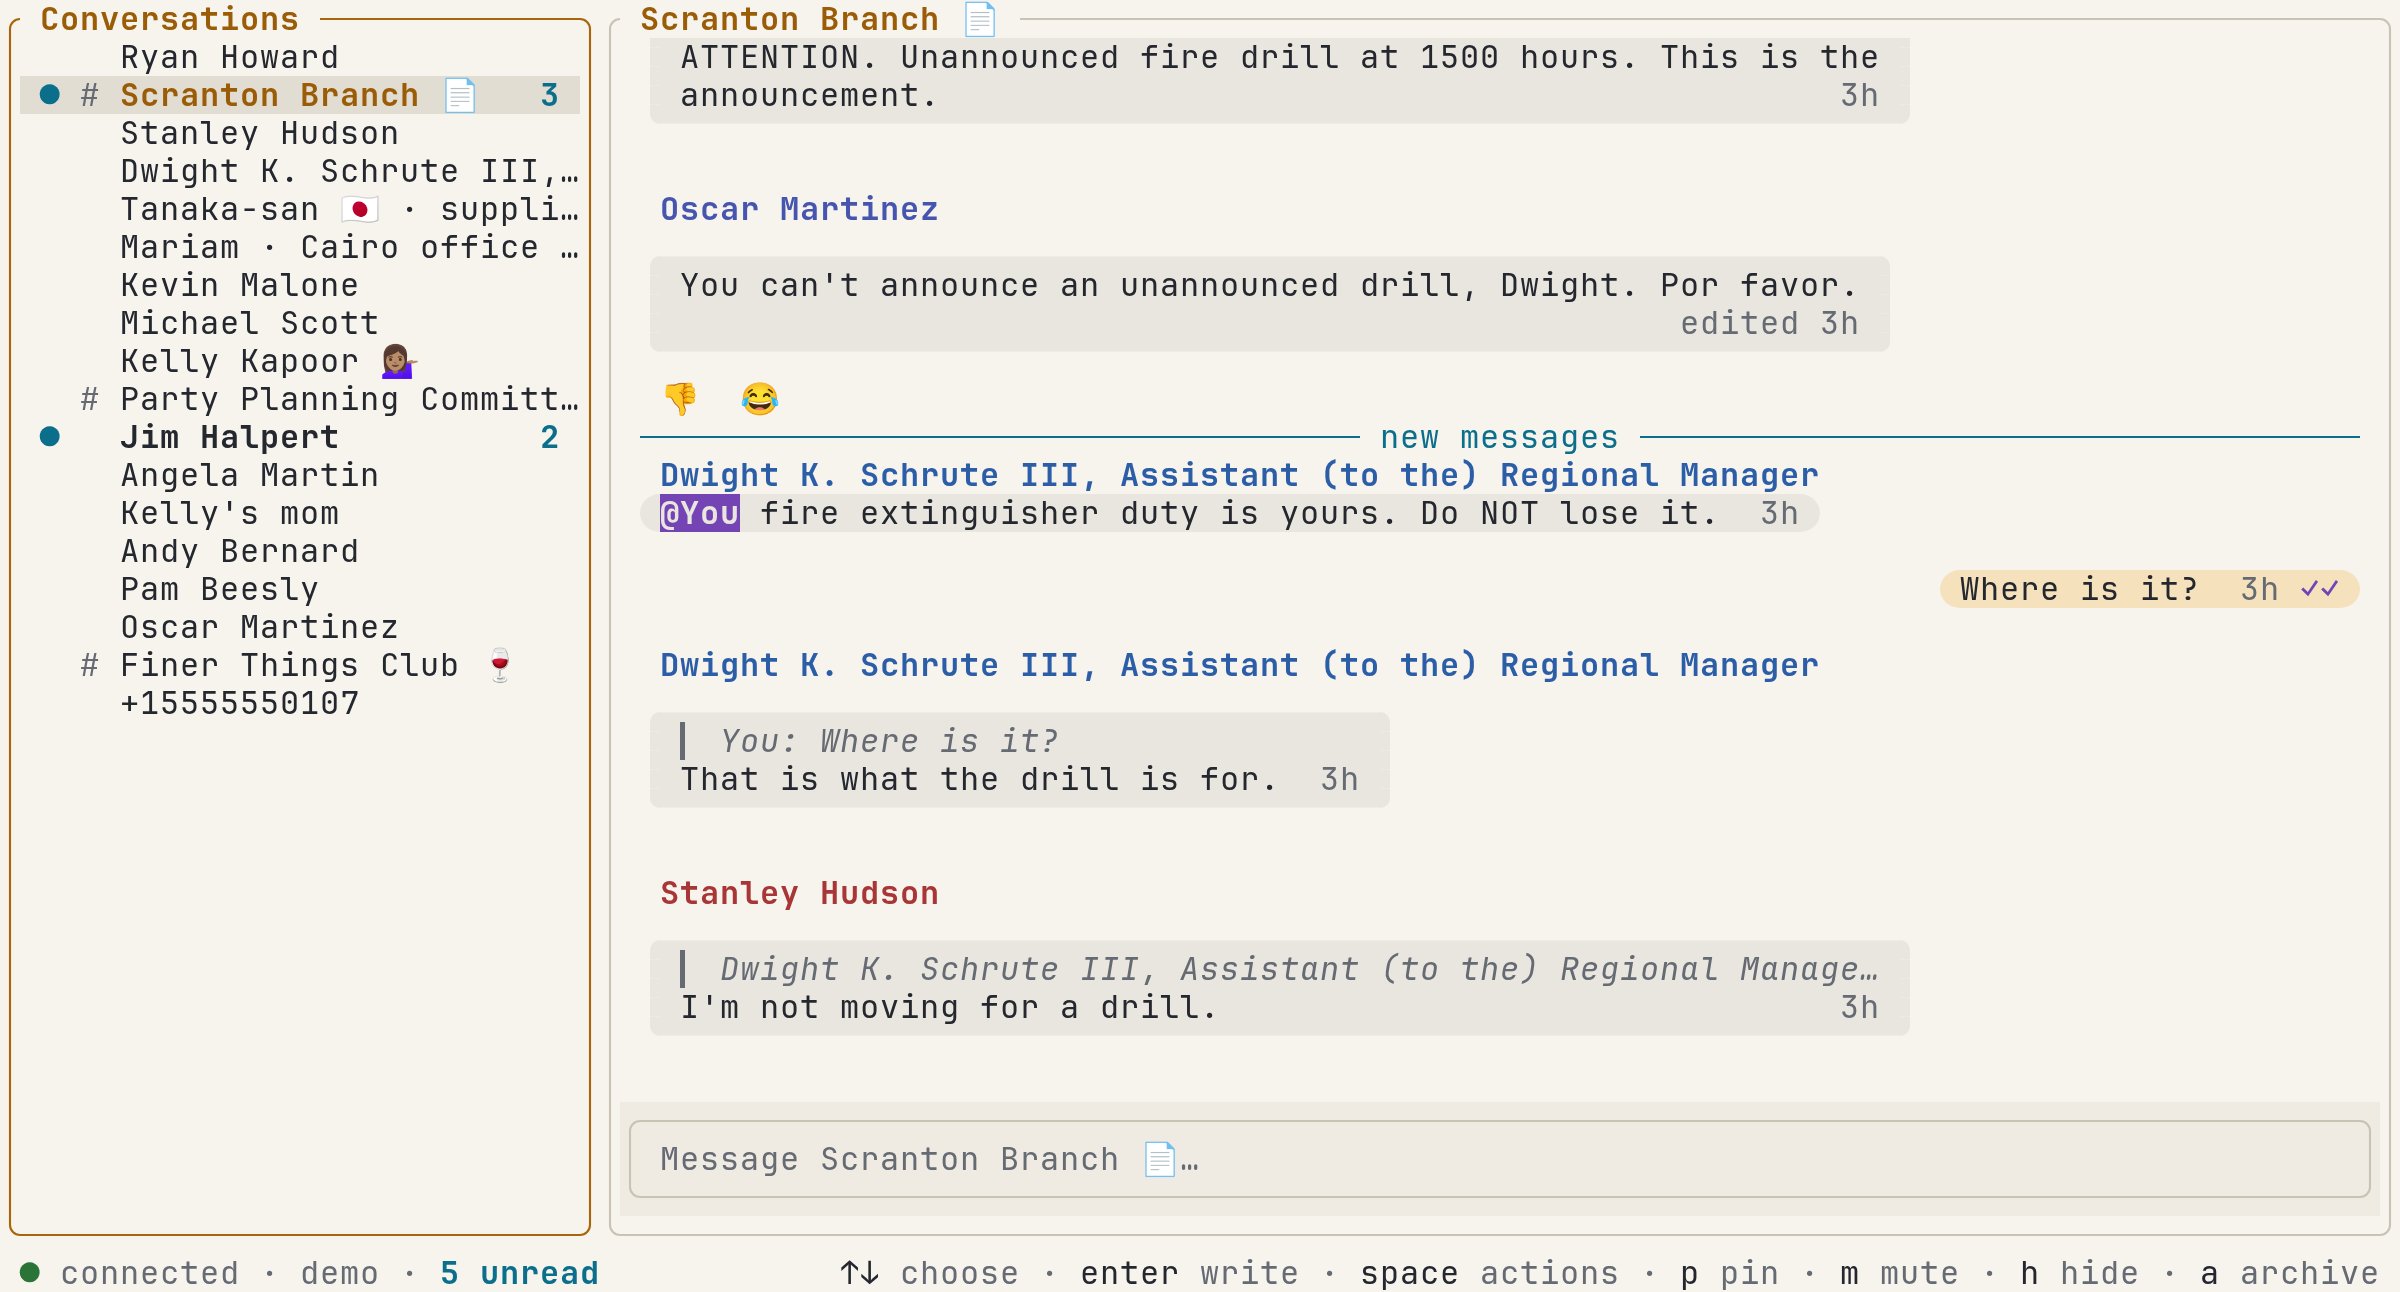
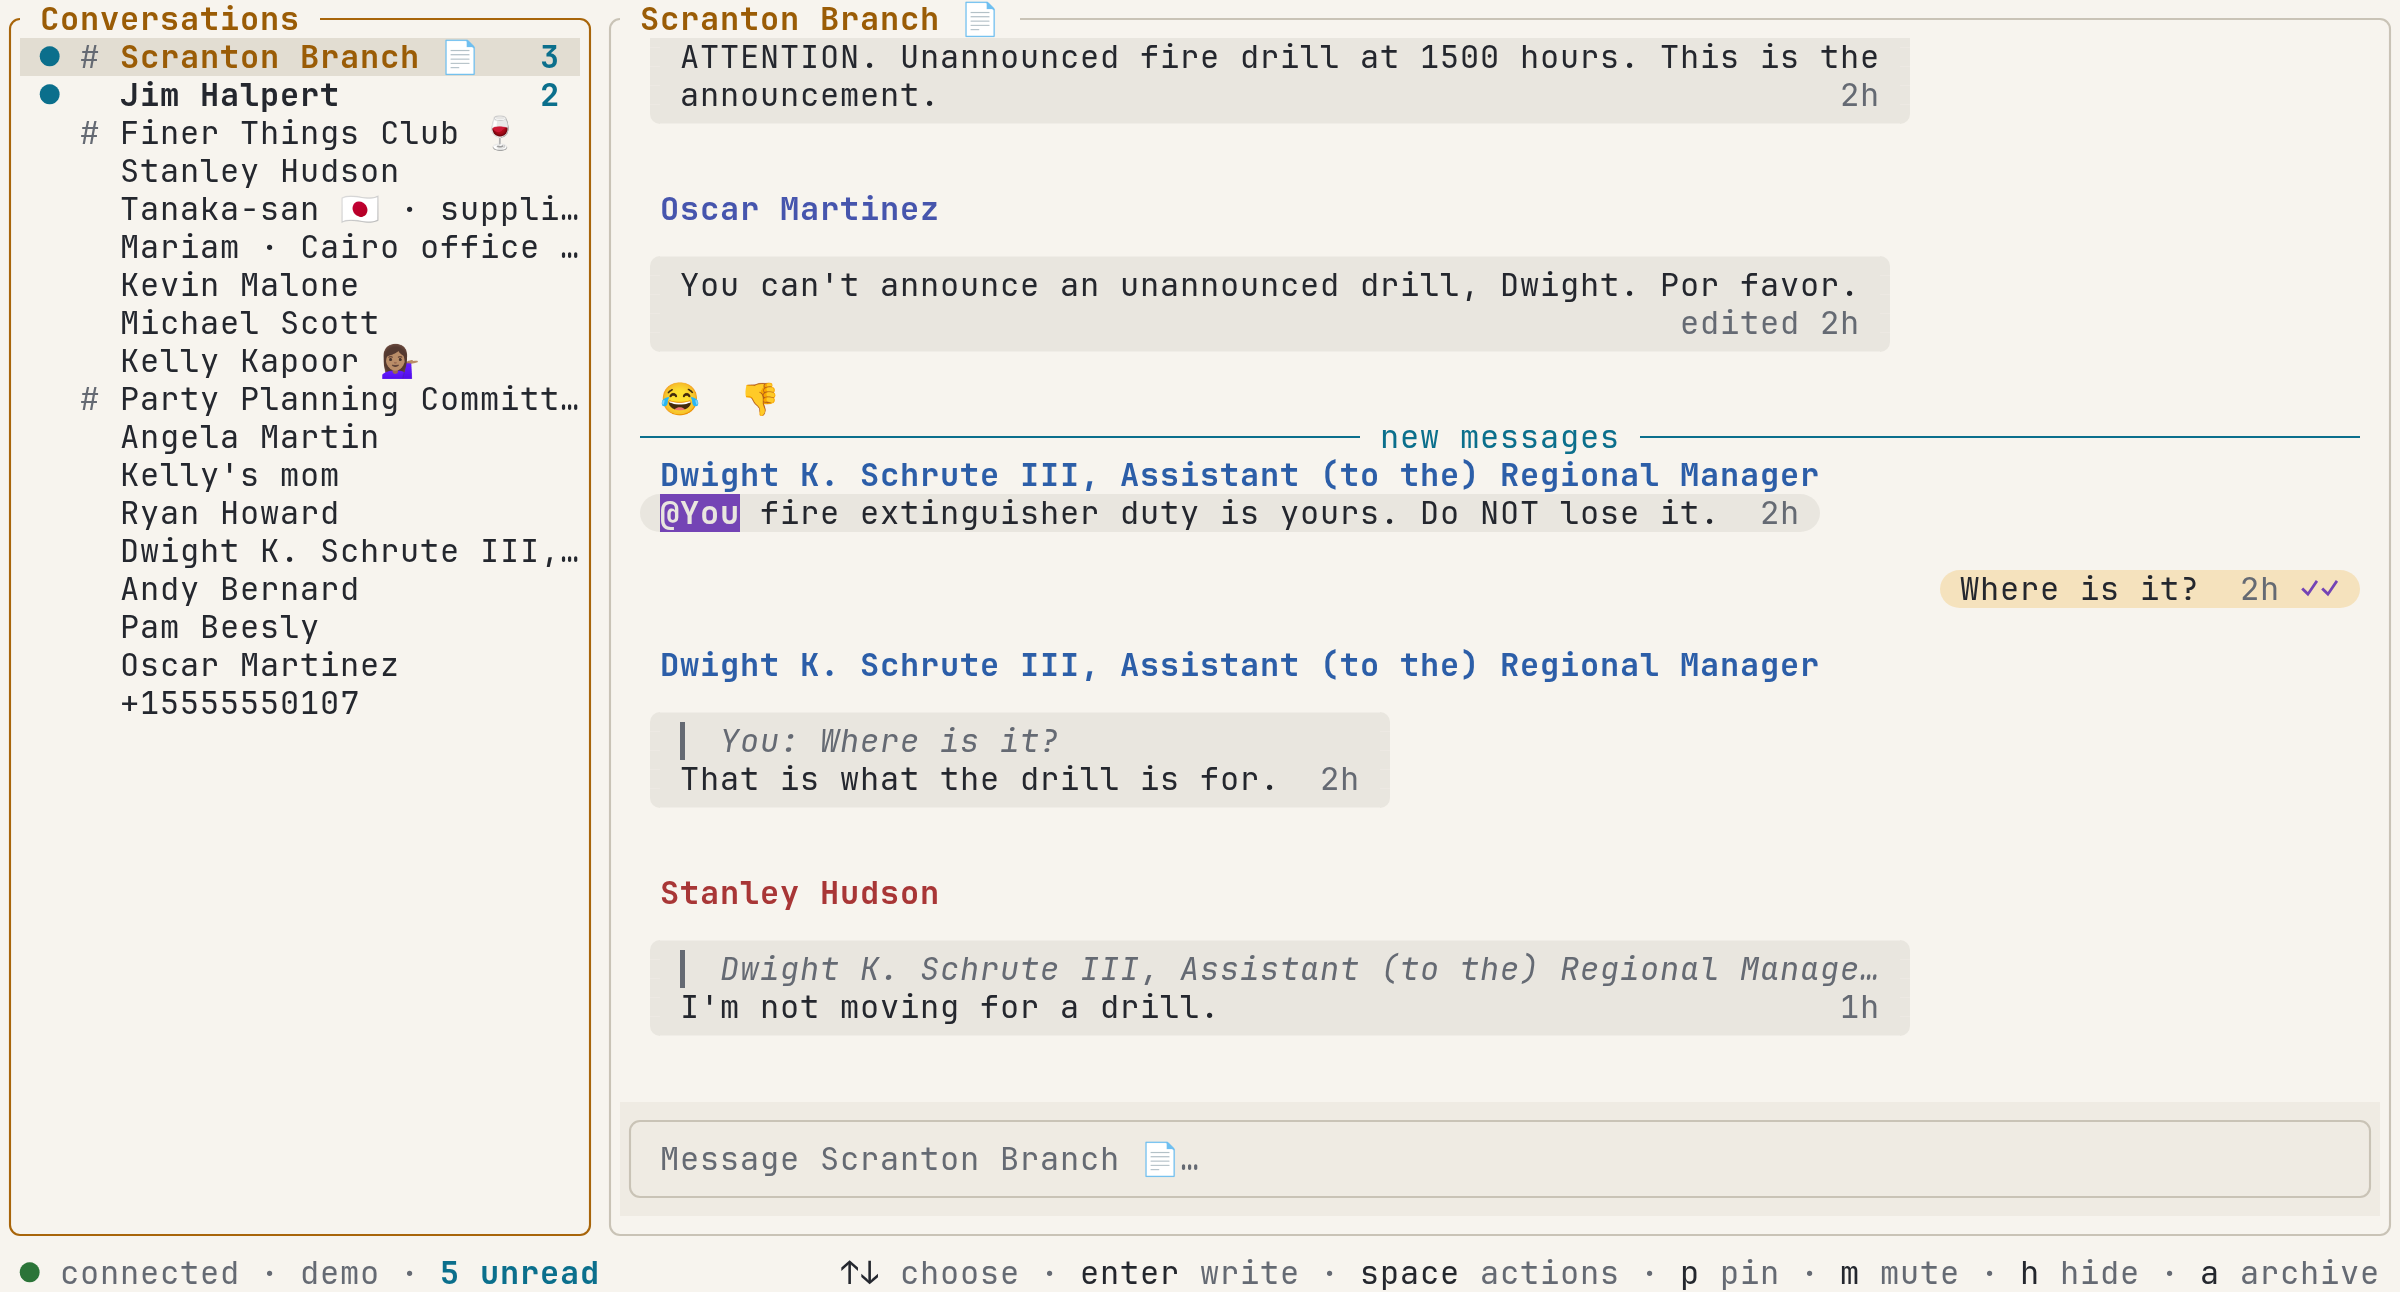
Demo: date the unread chats newest so they top the list (D139)

diff --git a/crates/faro-core/src/mock/sim.rs b/crates/faro-core/src/mock/sim.rs
@@ -497,10 +497,24 @@ impl Sim {
 
     /// Messages "queued on the server" while faro was closed: `count` lines from
     /// whole scenes (the last one may stop part-way and carry on live), dated
-    /// over the past few days and delivered right after connecting.
+    /// over the past few days and delivered right after connecting. The
+    /// [`UNREAD_AT_START`] chats always get a scene each, dated newest, so
+    /// the chats left unread sit at the top of the list (D139).
     fn schedule_backlog(&mut self, count: usize) {
-        let mut plays: Vec<(usize, usize)> = Vec::new();
         let mut left = count;
+        let mut unread: Vec<(usize, usize)> = Vec::new();
+        for (chat, _) in UNREAD_AT_START {
+            if left == 0 {
+                break;
+            }
+            let Some(scene) = self.next_scene_where(|s| s.chat == chat) else {
+                continue;
+            };
+            let lines = SCENES.get(scene).map_or(0, |s| s.lines.len()).min(left);
+            unread.push((scene, lines));
+            left -= lines;
+        }
+        let mut plays: Vec<(usize, usize)> = Vec::new();
         while left > 0 {
             let Some(scene) = self.next_scene() else {
                 break;
@@ -513,6 +527,8 @@ impl Sim {
             plays.push((scene, lines));
             left -= lines;
         }
+        // Oldest first: the first unread chat ends up newest, at the top.
+        plays.extend(unread.into_iter().rev());
         let scenes = u64::try_from(plays.len()).unwrap_or(1).max(1);
         let slot = (BACKLOG_SPAN - BACKLOG_NEWEST) / scenes;
         // (wall-clock ms, event), sorted before delivery.
@@ -627,6 +643,12 @@ impl Sim {
 
     /// The next scene in the seeded order whose chat has no scene running.
     fn next_scene(&mut self) -> Option<usize> {
+        self.next_scene_where(|_| true)
+    }
+
+    /// The next scene in the seeded order that `wanted` accepts and whose
+    /// chat has no scene running.
+    fn next_scene_where(&mut self, wanted: impl Fn(&Scene) -> bool) -> Option<usize> {
         if self.cursor >= self.order.len() {
             // Reshuffle, keeping what just played away from the front.
             shuffle(&mut self.rng, &mut self.order);
@@ -643,7 +665,7 @@ impl Sim {
         let offset = self.order.get(self.cursor..)?.iter().position(|&s| {
             SCENES
                 .get(s)
-                .is_some_and(|scene| !busy.contains(&scene.chat))
+                .is_some_and(|scene| wanted(scene) && !busy.contains(&scene.chat))
         })?;
         self.order.swap(self.cursor, self.cursor + offset);
         let scene = self.order.get(self.cursor).copied()?;
@@ -1424,5 +1446,33 @@ mod tests {
         assert!(times.is_sorted());
         assert!(times.iter().all(|t| *t < sim.wall_clock_at(0)));
         assert_eq!(sim.next_due(), None, "no activity configured");
+    }
+
+    /// The chats left unread hold the newest backlog messages, in
+    /// [`UNREAD_AT_START`] order, so they top the list (D139).
+    #[test]
+    fn unread_chats_are_the_newest() {
+        for seed in 0..16 {
+            let mut config = MockConfig::deterministic(seed);
+            config.activity = None;
+            let mut sim = Sim::new(&config, World::build());
+            let mut newest: Vec<(ConversationId, Timestamp)> = Vec::new();
+            for event in sim.pop_due(CONNECT_DELAY) {
+                let Some(m) = as_message(&event) else {
+                    continue;
+                };
+                match newest.iter_mut().find(|(c, _)| *c == m.conversation) {
+                    Some((_, at)) => *at = (*at).max(m.sent_at),
+                    None => newest.push((m.conversation, m.sent_at)),
+                }
+            }
+            newest.sort_by_key(|&(_, at)| std::cmp::Reverse(at));
+            let top: Vec<ConversationId> = newest.iter().take(2).map(|&(c, _)| c).collect();
+            let expected: Vec<ConversationId> = UNREAD_AT_START
+                .iter()
+                .filter_map(|&(chat, _)| sim.world.conversation(chat))
+                .collect();
+            assert_eq!(top, expected, "seed {seed}");
+        }
     }
 }

diff --git a/docs/DECISIONS.md b/docs/DECISIONS.md
@@ -1351,3 +1351,9 @@ Refines the DESIGN.md §5.1 sketch:
 - **Why:** an audit found the README read like release notes plus a manual: wrong since v0.1.1 (image sizing and "restart to detect"), a broken theme link, "later Signal keys", a feature list headed "in the demo", a wrong sentence about the commit checks; no limits or privacy notes; install → link → run buried; half the file terminal detail.
 - **Now:** README = badges (release, CI, AUR, licence; a stars badge waits until there are stars), pitch, one screenshot, Install (from source collapsed), Quick start, Using faro (10 essential keys plus every default key in a collapsed block, so the website's "All keys" link to `#keys` still holds; config in a paragraph; three flags), Terminal setup (tmux snippet), Privacy and limits (mirrors the website), Troubleshooting, Contributing, License. [docs/TERMINALS.md](TERMINALS.md) holds images, mosh and emoji, colours, themes and bubbles; [CONTRIBUTING.md](../CONTRIBUTING.md) holds bug reports, building, demo and allowlist testing flags (`--allowlist` is a development tool, so the README doesn't mention it; `faro --help` still lists it), the four checks, ground rules and the docs index.
 - **Keep in step:** the README's key tables with `keymap/defaults.rs`, its flags with `cli.rs`, and TERMINALS.md with the image/emoji/colour/bubble behaviour.
+
+### D139. The demo's unread chats are its newest (owner's report, 2026-10-14)
+
+- **Symptom:** the demo opened with Scranton Branch second and Jim (2 unread) seventh, below chats whose newer messages were all read: as if people had written since and you'd read them but not Jim.
+- **Cause:** the backlog dates its scenes by the seeded shuffle, while D134's read sync leaves two *fixed* chats unread; nothing tied those chats to the newest slots (or even guaranteed they had a scene).
+- **Fix:** `Sim::schedule_backlog` first takes one whole scene for each `UNREAD_AT_START` chat (`next_scene_where`, still in seeded order, so seeds vary which scene), fills the rest of the budget as before, and dates the unread chats' scenes newest, the first entry newest of all: Scranton Branch on top, Jim second, the read chats below. Test `unread_chats_are_the_newest` (16 seeds). README images regenerated; the site poster follows at the next deploy.

diff --git a/AGENTS.md b/AGENTS.md
@@ -175,6 +175,7 @@ A terminal (TUI) client for Signal, written in Rust, built for people who run ev
 - 2026-10-14: D137 stage 3: a different set of attached tmux clients (`Environment::tmux_clients`) also triggers the probe, for `auto` and forced protocols, and `Images::adopt` drops every cached picture so the new terminal gets them at its cell size.
 - 2026-10-14: stage 3 hardened (`1f1b87a`): the probe waits up to 3 s for the answer and passes on focus reports that came with it. **v0.1.1 released** (tag at `8937753`, version bump only after `1f1b87a`): GitHub release with 4 archives and 2 debs, `faro.rb` 0.1.1 pushed to the tap, CI green. AUR PKGBUILDs bumped with pinned checksums in the repo; pushing them to the AUR is the owner's.
 - 2026-10-14: D138 (owner's choice): README restructured (badges, quick start, essential keys + all default keys in a collapsed block under `### Keys`, privacy and limits, troubleshooting); terminal detail moved to `docs/TERMINALS.md`, development to `CONTRIBUTING.md`. Keep the README's key tables in step with `keymap/defaults.rs` and its flags with `cli.rs`; image/emoji/colour/bubble behaviour changes go in TERMINALS.md.
+- 2026-10-14: D139 (owner's report): the demo's backlog dates the `UNREAD_AT_START` chats' scenes newest (`Sim::next_scene_where`), so Scranton Branch and Jim top the list; README images regenerated.
 
 ### Gotchas found so far
 
